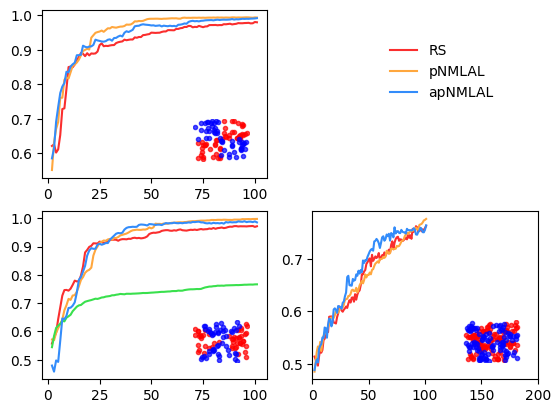
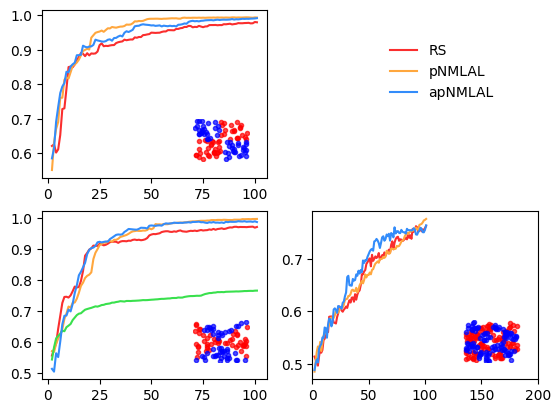
added metrics

diff --git a/apnml.py b/apnml.py
@@ -193,7 +193,7 @@ if __name__ == "__main__":
 
     experiments = 5
     iterations = 100
-    dataset = DatasetCheckerboard4x4(seed=42)
+    dataset = DatasetCheckerboard2x2(seed=42)
 
     # dataset = DatasetMNIST(seed=42)
     # dataset.set_is_binary()
